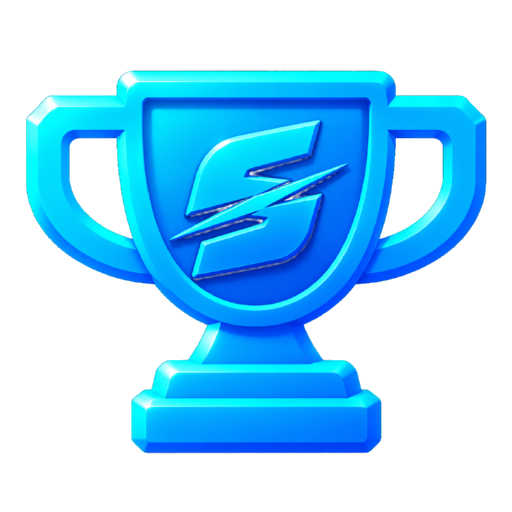
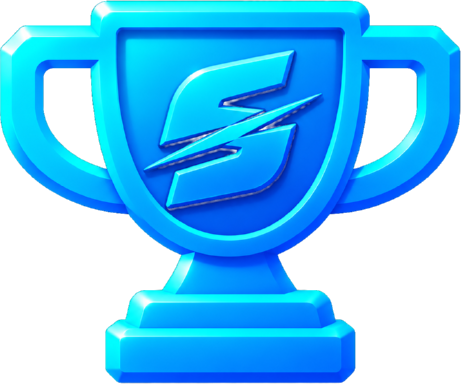
fix: the coin was drawing at two thirds size everywhere
Not a per-screen sizing problem. The art carried transparent padding -
342x344 of coin inside a 512x512 canvas - and CurrencyIcon draws with
resizeMode "contain", which fits the CANVAS to the box. A coin asked for
at 24pt drew 16pt of coin beside a 22pt Ionicons glyph, in the buy
button, the resource bar, the store and the spinning coin alike.

Worse, the coin was the `scale: 1` baseline, so the most-padded asset of
the three had pulled the whole currency set down with it.

Cropping the assets to their own artwork (tools/trimicon.js) makes 1.0
mean "fills the box", the same as a glyph, and leaves `scale` doing only
the optical-taste job it claims to do. At size 24 the coin goes 16.0 ->
23.9pt, the ticket is unchanged at 24 and the trophy gains 11%.

Multiplying `scale` to compensate was the other option and is the wrong
one: it makes the Image bigger than its own container, and an icon
overflowing its box collides with whatever sits beside it. The ticket
was already doing exactly that - inner 28.3pt inside a 24pt box. Nothing
overflows now.

Also sizes the reaction toggle to the rail it lives on. In the big
player it stood in a column of 46pt round buttons as a 15pt grey pill,
reading as a lesser control than the Save and Share it sits with; it is
now the same 46pt circle with a 22pt face. Grid cards keep the pill - a
46pt circle would cover a 100pt card.

ReactionBar already had a `vertical` prop documented for this exact spot
[…]

diff --git a/tools/trimicon.js b/tools/trimicon.js
@@ -1,0 +1,84 @@
+// Crops the transparent margin off an icon so the artwork fills its own
+// canvas.
+//   node tools/trimicon.js <file.png> [more.png ...]
+//
+// Why this exists: CurrencyIcon draws each asset with resizeMode
+// "contain" into a box the caller sizes. If the PNG carries transparent
+// padding, "contain" fits the CANVAS to the box and the visible artwork
+// lands smaller than asked for — the coin measured 342x344 inside a
+// 512x512 canvas, so a coin requested at 24pt drew about 16pt of coin
+// and read as undersized next to a 22pt Ionicons glyph everywhere it
+// appeared.
+//
+// The alternative was multiplying the scale factor to compensate, but
+// that makes the Image larger than its own container, and an icon that
+// overflows its box collides with whatever sits beside it — in the
+// resource bar, the number. Fixing the asset keeps the box honest.
+//
+// Overwrites in place. The originals are in git.
+
+const fs = require('fs');
+const { PNG } = require('pngjs');
+
+// Below this alpha a pixel counts as background. Not zero, because
+// antialiased edges and any leftover glow fade out gradually and a
+// strict test would leave a ring of near-invisible pixels behind,
+// defeating the crop.
+const ALPHA_FLOOR = 8;
+
+/** Tightest box containing every pixel that is actually visible. */
+function contentBox(png) {
+  const { width: w, height: h, data } = png;
+  let minX = w, minY = h, maxX = -1, maxY = -1;
+  for (let y = 0; y < h; y++) {
+    for (let x = 0; x < w; x++) {
+      if (data[((y * w + x) << 2) + 3] > ALPHA_FLOOR) {
+        if (x < minX) minX = x;
+        if (x > maxX) maxX = x;
+        if (y < minY) minY = y;
+        if (y > maxY) maxY = y;
+      }
+    }
+  }
+  return { minX, minY, maxX, maxY };
+}
+
+/** Crop one file to its content and write it back. */
+function trim(file) {
+  const src = PNG.sync.read(fs.readFileSync(file));
+  const { minX, minY, maxX, maxY } = contentBox(src);
+  if (maxX < 0) { console.log(`${file}: fully transparent, skipped`); return; }
+
+  const w = maxX - minX + 1;
+  const h = maxY - minY + 1;
+  if (w === src.width && h === src.height) {
+    console.log(`${file}: already tight (${w}x${h})`);
+    return;
+  }
+
+  const out = new PNG({ width: w, height: h });
+  // Straight copy rather than a resample: cropping must not touch the
+  // pixels it keeps, or the art softens every time this is run.
+  for (let y = 0; y < h; y++) {
+    for (let x = 0; x < w; x++) {
+      const s = (((y + minY) * src.width) + (x + minX)) << 2;
+      const d = ((y * w) + x) << 2;
+      out.data[d] = src.data[s];
+      out.data[d + 1] = src.data[s + 1];
+      out.data[d + 2] = src.data[s + 2];
+      out.data[d + 3] = src.data[s + 3];
+    }
+  }
+
+  fs.writeFileSync(file, PNG.sync.write(out));
+  const before = Math.max(src.width, src.height);
+  console.log(`${file}: ${src.width}x${src.height} -> ${w}x${h}`
+    + ` (art now fills the canvas; was ${(Math.max(w, h) / before * 100).toFixed(1)}%)`);
+}
+
+const files = process.argv.slice(2);
+if (!files.length) {
+  console.error('usage: node tools/trimicon.js <file.png> [more.png ...]');
+  process.exit(1);
+}
+files.forEach(trim);

diff --git a/src/lib/currency.js b/src/lib/currency.js
@@ -17,13 +17,19 @@ const trophy = require('../../assets/images/trophy.png');
 /**
  * Per-currency art and naming.
  *
- * `scale` is an OPTICAL correction, not a measurement. The three assets
- * fill their canvases very differently — measured content boxes are
- * 342x344 for the coin, 427x251 for the ticket and 461x384 for the
- * trophy — so rendering them all into the same square box makes the
- * ticket look tiny and the trophy look oversized. These multipliers
- * even out the apparent weight; they were derived from those boxes and
- * then nudged, which is why they aren't round numbers.
+ * `scale` is OPTICAL TASTE ONLY. It used to be doing a second job -
+ * compensating for transparent padding baked into the assets - and that
+ * is why the coin looked undersized everywhere it appeared. The three
+ * canvases were 512x512 while the art inside measured 342x344, 427x251
+ * and 461x384, so resizeMode "contain" fitted the CANVAS to the
+ * requested box and drew the artwork smaller than asked. The coin was
+ * the worst offender at 67% and, being the `scale: 1` baseline, it
+ * pulled the whole set down with it: a coin requested at 24pt drew
+ * about 16pt of coin beside a 22pt Ionicons glyph.
+ *
+ * The assets are now cropped to their own artwork (tools/trimicon.js),
+ * so 1.0 means "fills the box", the same as a glyph. Padding is not
+ * something these numbers have to think about any more.
  */
 export const CURRENCY = {
   coins: {
@@ -31,6 +37,8 @@ export const CURRENCY = {
     label: 'Coins',
     one: 'coin',
     source: coin,
+    // Square and fills its box, so it now matches an icon of the same
+    // nominal size instead of landing a third smaller.
     scale: 1,
   },
   tickets: {
@@ -38,18 +46,19 @@ export const CURRENCY = {
     label: 'Tickets',
     one: 'ticket',
     source: ticket,
-    // Short and wide, so it needs a lift to sit level with the others.
-    // Not lifted all the way to matching height - that would make it
-    // wider than the row can take.
-    scale: 1.18,
+    // Wide and short, so `contain` fits it by WIDTH and it sits shorter
+    // than the others by nature. Left at full width rather than lifted
+    // to match their height, which would make it wider than the row can
+    // take - the same compromise as before, minus the padding math.
+    scale: 1,
   },
   trophies: {
     key: 'trophies',
     label: 'Trophies',
     one: 'trophy',
     source: trophy,
-    // The largest of the three on canvas; pulled back so it doesn't
-    // dominate the row.
+    // The chunkiest silhouette of the three; pulled back a little so it
+    // doesn't dominate the resource bar next to a round coin.
     scale: 0.92,
   },
 };

diff --git a/src/components/game/ReactionBar.jsx b/src/components/game/ReactionBar.jsx
@@ -194,15 +194,26 @@ export default function ReactionBar({
   // yet would be the one card you cannot react to.
   if (isSummary && shown.length === 0 && !canAdd) return null;
 
+  // In the big player the toggle stands in a column of 46pt round action
+  // buttons (Save / Buy / Share / Report), where a small pill read as a
+  // different class of control than the things it sits with. On the
+  // scoring grid it stays a pill, because there it sits on a 100pt card
+  // and a 46pt circle would cover the clip.
+  const railSized = vertical;
+
   const addToggle = (
     <Pressable
       ref={toggleRef}
       onPress={openAtToggle}
-      style={styles.chip}
+      style={railSized ? styles.railToggle : styles.chip}
       hitSlop={6}
     >
-      <Ionicons name="happy-outline" size={15} color="rgba(255,255,255,0.65)" />
-      <Text style={styles.plus}>+</Text>
+      <Ionicons
+        name="happy-outline"
+        size={railSized ? 22 : 15}
+        color={railSized ? 'white' : 'rgba(255,255,255,0.65)'}
+      />
+      <Text style={[styles.plus, railSized && styles.plusRail]}>+</Text>
     </Pressable>
   );
 
@@ -440,11 +451,33 @@ const styles = StyleSheet.create({
     fontWeight: '800',
   },
   glyph: { fontSize: 14 },
+  // Mirrors railIcon in CreatorActionRow: 46pt circle, same fill and
+  // border. They stack in one column, so any drift between the two
+  // shows up as a wobble down the edge of the video.
+  railToggle: {
+    flexDirection: 'row',
+    alignItems: 'center',
+    justifyContent: 'center',
+    width: 46,
+    height: 46,
+    borderRadius: 23,
+    borderWidth: 2,
+    borderColor: 'rgba(255,255,255,0.25)',
+    backgroundColor: 'rgba(0,0,0,0.55)',
+  },
   plus: {
     color: 'rgba(255,255,255,0.65)',
     fontSize: 12,
     fontWeight: '900',
     marginLeft: -1,
+  },
+  // Grows with the face so the pairing keeps its proportions, and
+  // brightens to match: on the rail it is a peer of Save and Share,
+  // not the greyed-out chrome it reads as on a crowded grid card.
+  plusRail: {
+    color: 'white',
+    fontSize: 15,
+    marginLeft: 1,
   },
   count: {
     color: 'white',

diff --git a/src/screens/GameScreen.jsx b/src/screens/GameScreen.jsx
@@ -2349,6 +2349,13 @@ export default function GameScreen({ navigation, route }) {
                 <ReactionBar
                   mode="picker"
                   collapsible
+                  // The prop existed and was documented for exactly this
+                  // spot - "used in the big player, where the actions
+                  // live on a rail" - but nothing ever passed it, so the
+                  // toggle stayed pill-sized under a column of 46pt
+                  // round buttons and read as a lesser control than the
+                  // things beside it.
+                  vertical
                   mine={mineFor(game.reactions, previewCard.uid, user?.uid)}
                   onReact={(key) => handleReact(previewCard.uid, key)}
                   disabled={reactionCooling}
